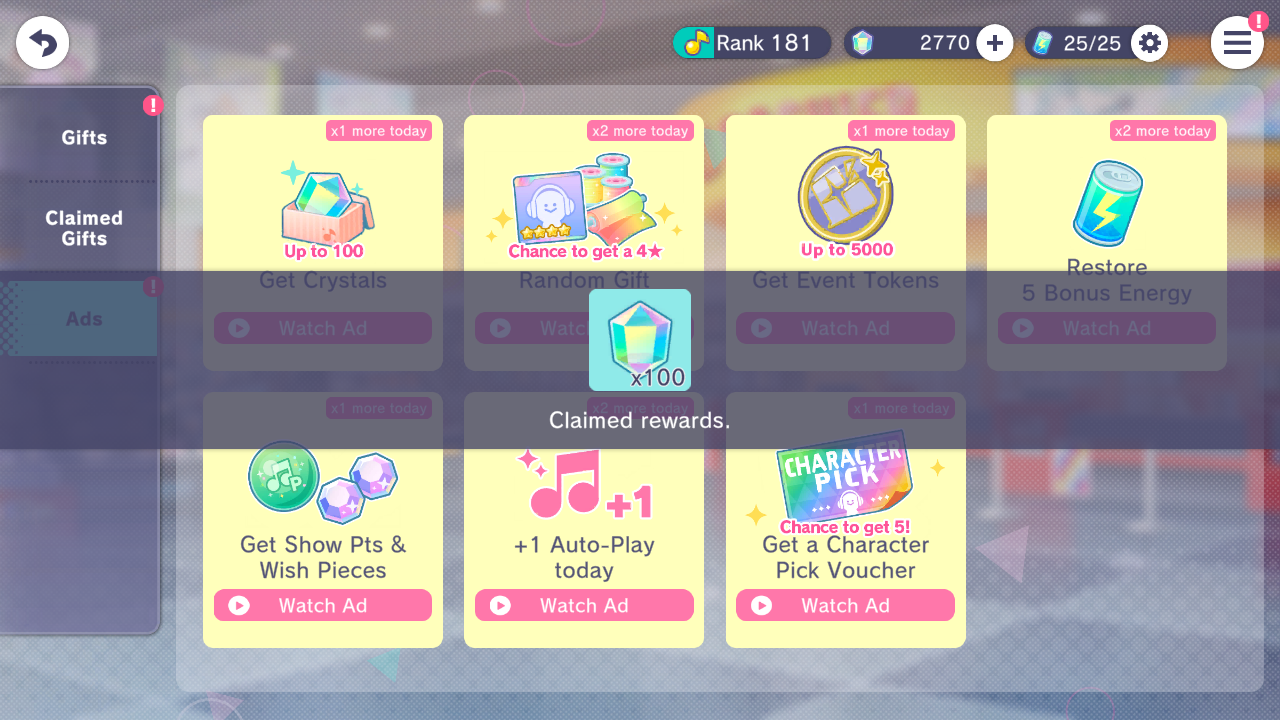
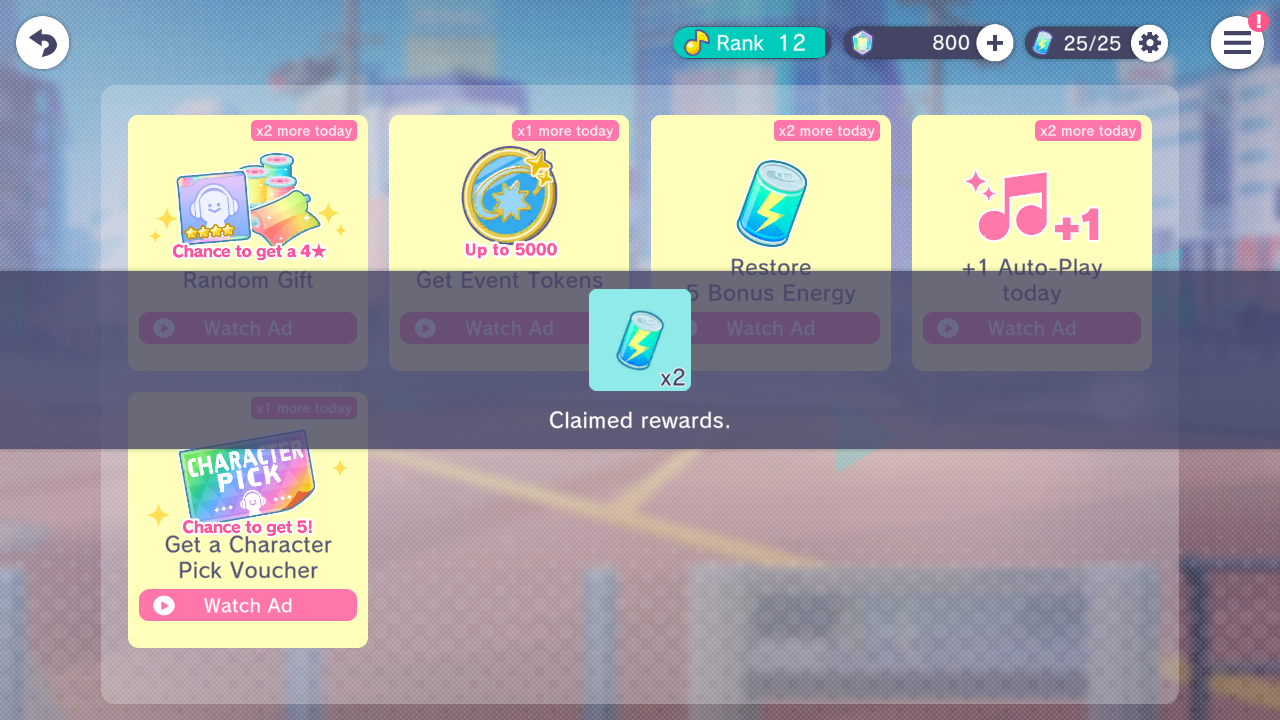
fix: support EN CM playback and provider recovery / 支持 EN CM 广告播放和提供方恢复流程 (#26)
* fix: support EN live result recovery

* fix: add EN CM visual resources

* fix: support EN CM playback and reward handling

* fix: widen CM provider control search regions

* fix: harden EN CM provider exit recovery

* fix: enable EN Sekai announcements recognition

diff --git a/iaa/tasks/cm.py b/iaa/tasks/cm.py
@@ -123,25 +123,121 @@ def clear_common_cm():
     logger.info('Clearing CM.') 
     rep = task_reporter()
     d = device.of_android()
+    current_server = server()
+    def _en_ad_started() -> bool:
+        if current_server != 'en':
+            return False
+        try:
+            if device.commands.current_package() != package_name():
+                return True
+            activity = d.commands.adb_shell('dumpsys activity activities | grep ResumedActivity')
+        except Exception:
+            logger.exception('Failed to check foreground ad activity.')
+            return False
+        return package_name() in activity and 'MessagingUnityPlayerActivity' not in activity
+
+    def _find_reward_text():
+        if current_server == 'en':
+            return AnyOf[
+                R.Cm.TextAwardClaimed,
+                R.Cm.TextApRecovered,
+                R.Cm.TextAutoPlayLimitIncreased
+            ].find()
+        return AnyOf[
+            R.Cm.TextAwardClaimed,
+            R.Cm.TextApRecovered
+        ].find()
+
+    def _dismiss_reward_text(reward_text) -> None:
+        if current_server == 'en':
+            if getattr(reward_text, 'prefab', None) is R.Cm.TextAwardClaimed:
+                # EN claimed-reward popups can put item art at screen center. Tap the text line instead.
+                x, y = reward_text.rect.center
+                tap_x, tap_y = int(x + 80), int(y)
+            else:
+                tap_x, tap_y = 1000, 600
+            logger.info('Dismissing EN CM reward toast at (%s, %s).', tap_x, tap_y)
+            device.click(tap_x, tap_y)
+            sleep(0.5)
+            for _ in range(10):
+                device.screenshot()
+                if _find_reward_text() is None:
+                    return
+                sleep(0.2)
+            logger.debug('Reward toast still visible after dismiss click.')
+        else:
+            device.click_center() # 关闭奖励领取提示
+
+    def _try_en_provider_exit() -> str | None:
+        device.screenshot()
+        if R.Cm.AdMeta.ButtonClose.q(threshold=0.80).try_click():
+            return 'Meta plain close X'
+        if R.Cm.Ad1.ButtonClose.q(threshold=0.69).try_click():
+            return 'inherited close X'
+        if R.Cm.Ad1.ButtonSkip.q(threshold=0.70).try_click():
+            return 'skip control'
+        return None
+
+    def _return_from_ad_with_home() -> None:
+        d.commands.adb_shell('input keyevent KEYCODE_HOME')
+        sleep(0.5)
+        d.launch_app(package_name())
+        sleep(0.5)
+        logger.debug('Ad skipped.')
+
     state: int = 1 # 1=开始看，2=载入，3=正在看，4=等结果
     wait_sec = get_conf().cm.watch_ad_wait_sec
+    max_provider_exit_attempts = 3
+    max_provider_exit_misses = 8
+    provider_exit_attempts = 0
+    provider_exit_misses = 0
     for _ in Loop(interval=0.6):
         if state == 1:
+            if current_server == 'en':
+                if _en_ad_started():
+                    provider_exit_attempts = 0
+                    provider_exit_misses = 0
+                    state = 3
+                    continue
+                device.screenshot()
+                if reward_text := _find_reward_text():
+                    logger.info('Reward toast is still visible. Dismissing before starting next ad.')
+                    _dismiss_reward_text(reward_text)
+                    continue
             # 开始看
-            if R.Cm.ButtonCmStart.q(threshold=0.7).try_click():
+            if current_server != 'en' and R.Cm.ButtonCmStart.q(threshold=0.7).try_click():
                 logger.debug('Clicked 視聴開始 button.')
                 sleep(1)
                 state = 2
             elif R.Cm.ButtonPlayCm.try_click():
+                provider_exit_attempts = 0
+                provider_exit_misses = 0
                 rep.message(TStr(zh_CN='播放广告', en_US='Playing ad'))
                 logger.debug('Clicked CM start button.')
                 sleep(1)
+                if current_server == 'en':
+                    state = 1
+                    for _ in range(10):
+                        if _en_ad_started():
+                            logger.info('Ad activity detected after CM start click.')
+                            state = 3
+                            break
+                        device.screenshot()
+                        if R.Cm.ButtonPlayCm.q(threshold=0.7).find() is None:
+                            state = 2
+                            break
+                        sleep(0.5)
             # 没有剩余广告了
             else:
                 if not R.Hud.ButtonGoBack.exists():
                     logger.info('All ads cleared.')
                     break
         elif state == 2:
+            if current_server == 'en':
+                if _en_ad_started():
+                    logger.info('Ad activity detected while waiting for ad load.')
+                    state = 3
+                    continue
             if R.Cm.ButtonPlayCm.q(threshold=0.7).find():
                 rep.message(TStr(zh_CN='等待广告载入', en_US='Waiting for ad to load'))
                 logger.debug('Loading ad...')
@@ -153,35 +249,93 @@ def clear_common_cm():
         elif state == 3:
             _sleep(wait_sec, msg=lambda s: TStr(zh_CN=f'等待广告结束，剩余 {s} 秒', en_US=f'Waiting for ad to end, {s}s remaining'))
             logger.debug('Wait ad finished.')
+            if current_server == 'en' and _en_ad_started():
+                for _ in range(max_provider_exit_attempts):
+                    if provider_control := _try_en_provider_exit():
+                        provider_exit_attempts = 1
+                        provider_exit_misses = 0
+                        logger.info(
+                            'Clicked EN provider %s (exit attempt %s/%s).',
+                            provider_control,
+                            provider_exit_attempts,
+                            max_provider_exit_attempts
+                        )
+                        sleep(1)
+                        state = 4
+                        break
+                    sleep(0.5)
+                if state == 4:
+                    continue
             # 返回桌面再重新打开游戏就可以关闭广告
-            d.commands.adb_shell('input keyevent KEYCODE_HOME')
-            sleep(0.5)
-            d.launch_app(package_name())
-            sleep(0.5)
-            logger.debug('Ad skipped.')
+            logger.info('No provider exit control matched. Using Home/relaunch fallback.')
+            _return_from_ad_with_home()
             state = 4
         elif state == 4:
+            if current_server == 'en':
+                device.screenshot()
             # 由于广告没放完就点了跳过导致领取奖励失败
             if R.Cm.TextCmFailed.find():
                 logger.info('Ad play failed due to early skip.')
                 device.click(1, 1) # 关闭弹窗
                 sleep(0.5)
+                provider_exit_attempts = 0
+                provider_exit_misses = 0
                 state = 1
             # 看完了
-            elif AnyOf[
-                R.Cm.TextAwardClaimed,
-                R.Cm.TextApRecovered
-            ].find():
+            elif award_text := _find_reward_text():
                 logger.info('Ad award claimed.')
-                device.click_center() # 关闭奖励领取提示
+                _dismiss_reward_text(award_text)
                 rep.message(TStr(zh_CN='奖励已领取', en_US='Reward claimed'))
+                provider_exit_attempts = 0
+                provider_exit_misses = 0
                 state = 1
+            elif current_server == 'en' and _en_ad_started():
+                if device.commands.current_package() != package_name():
+                    logger.info(
+                        'EN provider opened an external app. Returning to its end card.'
+                    )
+                    _return_from_ad_with_home()
+                    provider_exit_misses = 0
+                    continue
+                if provider_control := _try_en_provider_exit():
+                    provider_exit_attempts += 1
+                    provider_exit_misses = 0
+                    logger.info(
+                        'Clicked EN provider %s (exit attempt %s/%s).',
+                        provider_control,
+                        provider_exit_attempts,
+                        max_provider_exit_attempts
+                    )
+                    sleep(1)
+                    if (
+                        provider_exit_attempts >= max_provider_exit_attempts
+                        and _en_ad_started()
+                    ):
+                        logger.info(
+                            'Provider exit remained active after %s attempts. '
+                            'Using Home/relaunch fallback.',
+                            provider_exit_attempts
+                        )
+                        _return_from_ad_with_home()
+                else:
+                    provider_exit_misses += 1
+                    if provider_exit_misses >= max_provider_exit_misses:
+                        logger.info(
+                            'No provider exit control matched after %s checks. '
+                            'Using Home/relaunch fallback.',
+                            provider_exit_misses
+                        )
+                        _return_from_ad_with_home()
+                        provider_exit_misses = 0
+                    else:
+                        rep.message(TStr(zh_CN='等待结果', en_US='Waiting for result'))
+                        logger.debug('Waiting for EN provider result...')
             # Applovin 广告特判
-            elif R.Cm.Ad1.ButtonClose.try_click():
+            elif current_server != 'en' and R.Cm.Ad1.ButtonClose.try_click():
                 logger.info('Close button clicked. (Applovin/GP ad?)')
                 sleep(1)
                 state = 1
-            elif R.Cm.Ad1.ButtonSkip.q(threshold=0.7).try_click():
+            elif current_server != 'en' and R.Cm.Ad1.ButtonSkip.q(threshold=0.7).try_click():
                 logger.info('Skip button clicked. (Applovin/GP ad?)')
                 sleep(1)
             # GooglePlay App 广告特判：
@@ -190,7 +344,7 @@ def clear_common_cm():
                 logger.info('Returning to game from ad. (GP ad?)')
                 # device.commands.launch_app(package_name())
                 # 有些广告，调用 launch_app 会触发重新播放，导致无限循环
-                device.commands.adb_shell('adb shell am force-stop com.android.vending')
+                device.commands.adb_shell('am force-stop com.android.vending')
                 sleep(1)
             # 还在加载
             else:
